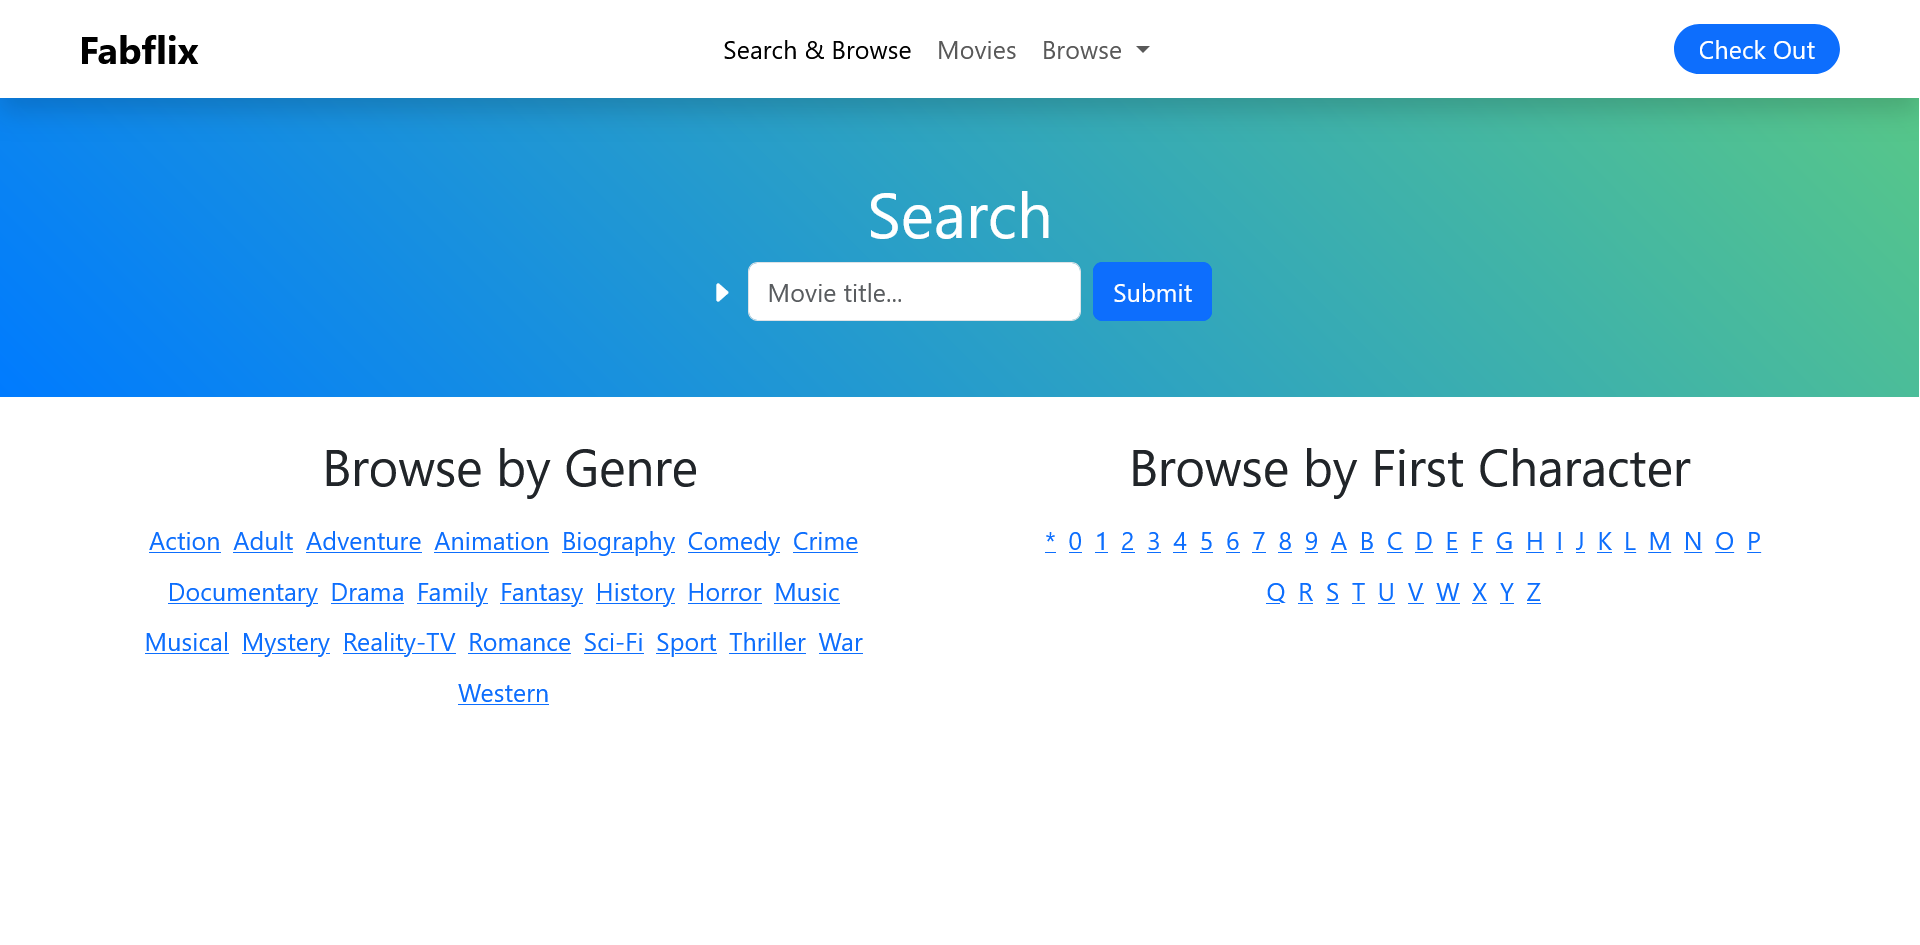
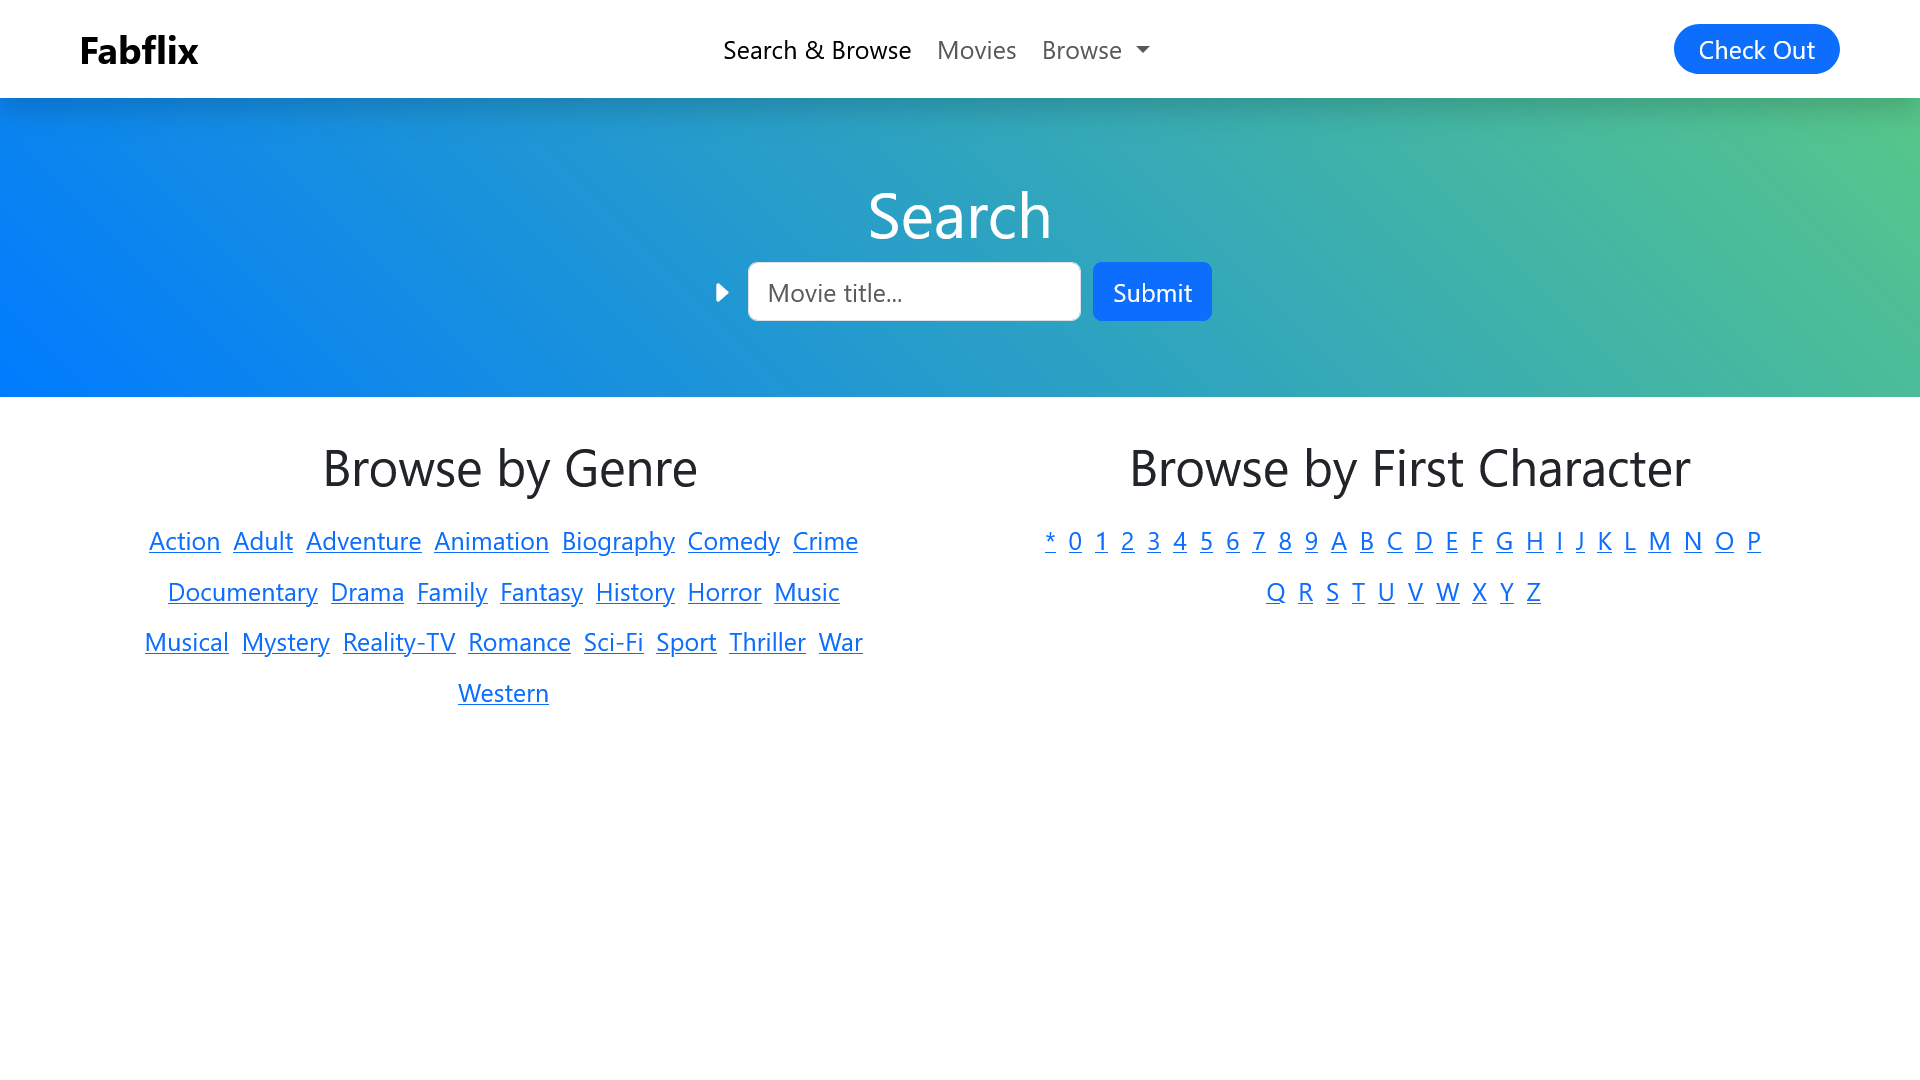
Fixed video thumbnail images

diff --git a/src/components/ProjectHoverVideo/ProjectHoverVideo.module.css b/src/components/ProjectHoverVideo/ProjectHoverVideo.module.css
@@ -1,5 +1,4 @@
 .projectHoverVideo {
-  width: auto;
   height: 250px;
   flex-shrink: 0;
   aspect-ratio: 16 / 9;
@@ -16,9 +15,9 @@
 }
 
 .projectHoverVideo img {
-  width: 100%;
   height: 100%;
-  object-fit: cover;
+  width: 100%;
+  object-fit: contain;
 }
 
 @media screen and (max-width: 1000px) {
